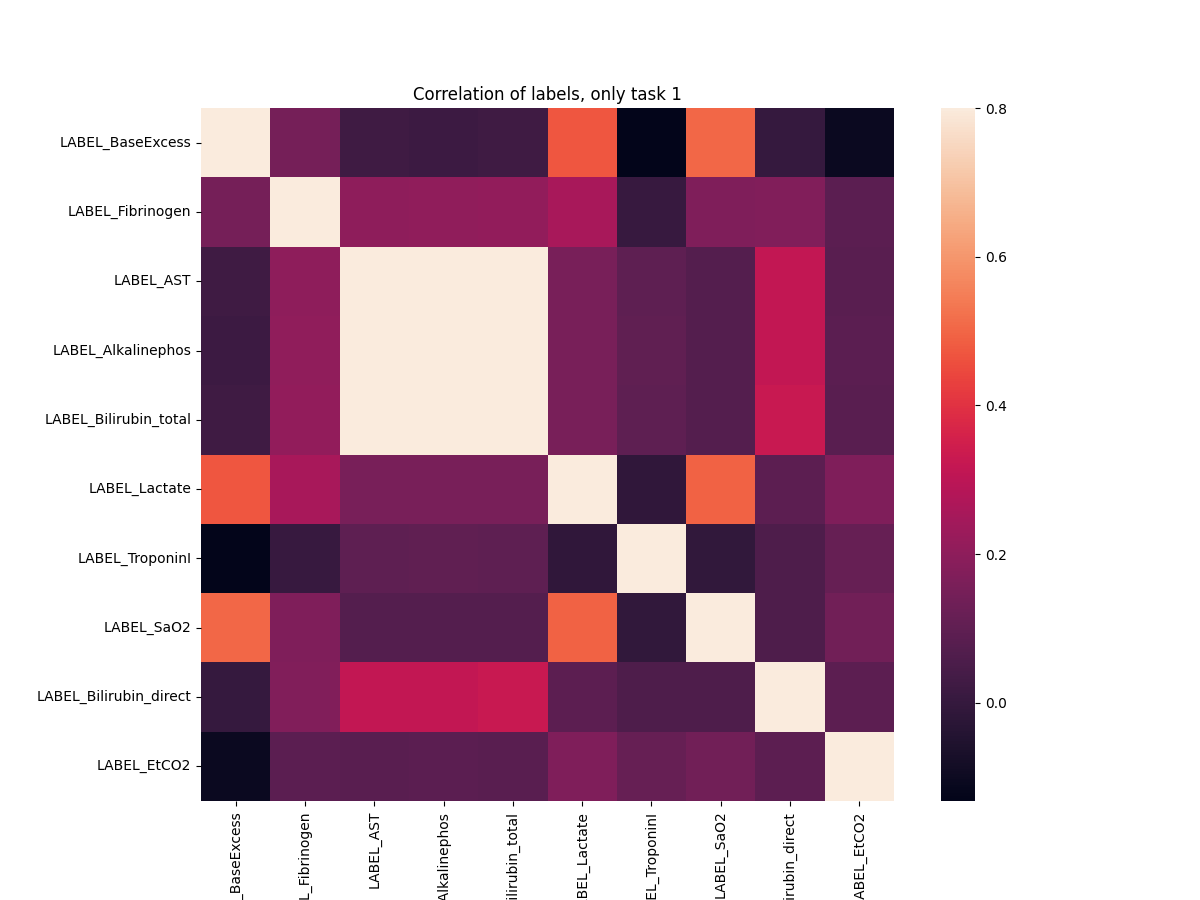
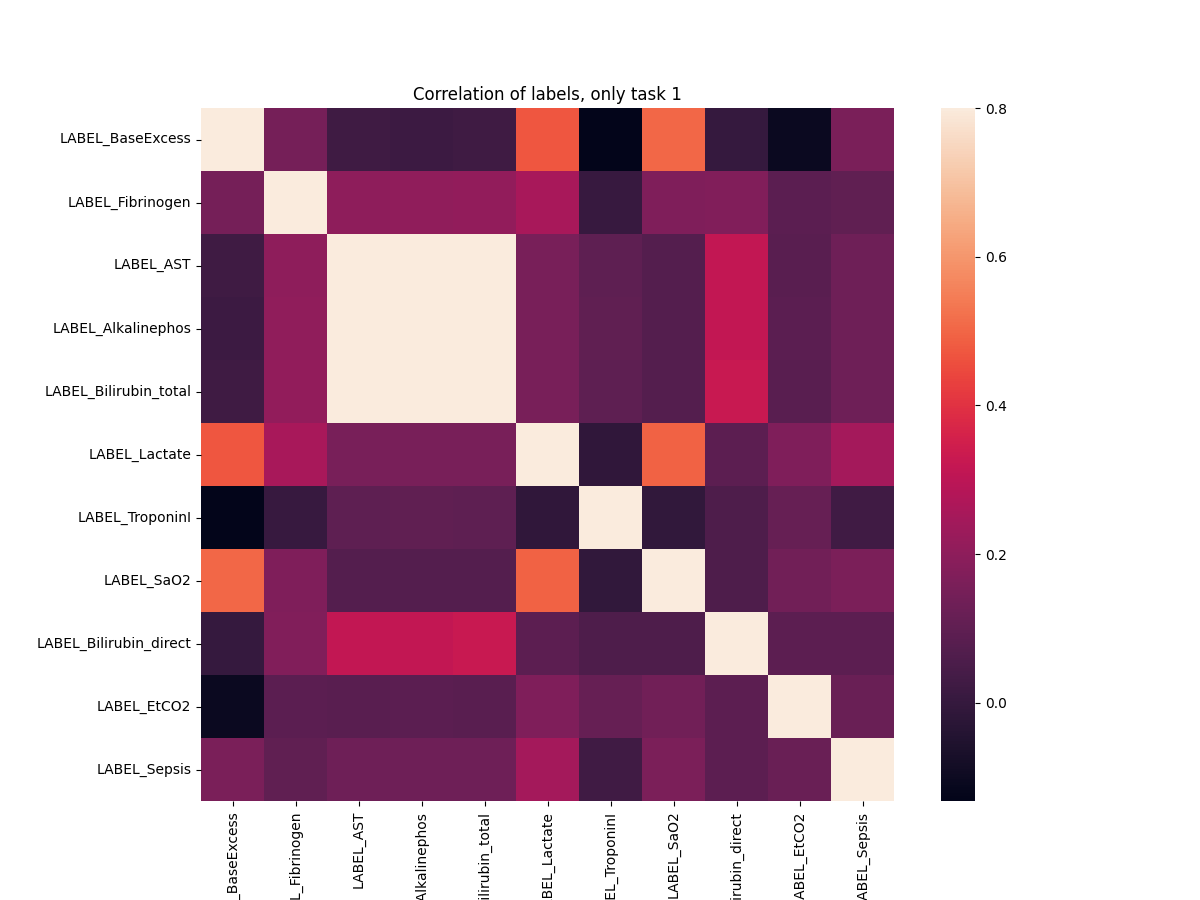
Task2 and played around with feature selection

diff --git a/task2/Code/train_sven_csv.py b/task2/Code/train_sven_csv.py
@@ -7,7 +7,7 @@ from sklearn.model_selection import cross_val_score
 from sklearn.feature_selection import SelectKBest
 
 fname = "Data/"
-train_df = pd.read_csv(fname + "train_features.csv")
+train_df = pd.read_csv(fname + "data_interpolated_means.csv")
 label_df = pd.read_csv(fname + "train_labels.csv")
 test_df = pd.read_csv(fname + "test_features.csv")
 
@@ -40,45 +40,21 @@ label_df = label_df.drop(columns=['LABEL_Sepsis','LABEL_RRate','LABEL_ABPm','LAB
 y = label_df.to_numpy()
 y = y[:,1:]
 
+#accuracy = np.empty((y.shape[1],))
+
 clf = SGDClassifier()
 for i in range(y.shape[1]):
     print("label: " + str(i))
-    max = 0
-    maxIdx = 12
-    for j in range(12,132,12):
-        X_new = SelectKBest(k=j).fit_transform(X, y[:,i])
-        scores = cross_val_score(clf, X_new, y[:,i], cv=10)
-        if np.mean(scores) > max:
-            max = np.mean(scores)
-            maxIdx = j
-    print(max)
-    print("Features: ",maxIdx)
+    X_new = SelectKBest(k=1).fit_transform(X, y[:,i])
+    scores = cross_val_score(clf, X_new, y[:,i], cv=10)
+    print(scores)
+
+#for i in range(y.shape[1]):
+    #clf = LogisticRegressionCV(cv=10, max_iter=100, solver='sag').fit(X,y[:,i])
+    #accuracy[i] = clf.score(X,y)
 
 
 
-
-'''
-label: 0
-0.7725716859288823
-label: 1
-0.9227684653973005
-label: 2
-0.7665174745711039
-label: 3
-0.770307724287021
-label: 4
-0.7648852858845376
-label: 5
-0.8095817466256479
-label: 6
-0.9018157201851391
-label: 7
-0.7889439039937918
-label: 8
-0.9603579723400127
-label: 9
-0.9279820958399159
-'''
 
 
 

diff --git a/task2/Code/task_2.py b/task2/Code/task_2.py
@@ -35,53 +35,11 @@ X = np.hstack((age,X))
 
 # PREPARING TRAINING LABELS
 label_df = label_df.sort_values(by=['pid'])
-label_df = label_df.drop(columns=['LABEL_Sepsis','LABEL_RRate','LABEL_ABPm','LABEL_SpO2','LABEL_Heartrate'])
+label_df = label_df.loc[:,"LABEL_Sepsis"]
 
 y = label_df.to_numpy()
-y = y[:,1:]
 
 clf = SGDClassifier()
-for i in range(y.shape[1]):
-    print("label: " + str(i))
-    max = 0
-    maxIdx = 12
-    for j in range(12,132,12):
-        X_new = SelectKBest(k=j).fit_transform(X, y[:,i])
-        scores = cross_val_score(clf, X_new, y[:,i], cv=10)
-        if np.mean(scores) > max:
-            max = np.mean(scores)
-            maxIdx = j
-    print(max)
-    print("Features: ",maxIdx)
-
-
-
-
-'''
-label: 0
-0.7725716859288823
-label: 1
-0.9227684653973005
-label: 2
-0.7665174745711039
-label: 3
-0.770307724287021
-label: 4
-0.7648852858845376
-label: 5
-0.8095817466256479
-label: 6
-0.9018157201851391
-label: 7
-0.7889439039937918
-label: 8
-0.9603579723400127
-label: 9
-0.9279820958399159
-'''
-
-
-
-
-
-
+X_new = SelectKBest(k=1).fit_transform(X, y)
+scores = cross_val_score(clf, X_new, y, cv=10)
+print(scores)

diff --git a/task2/Code/labels_visualization.py b/task2/Code/labels_visualization.py
@@ -8,7 +8,7 @@ fname = "Data/"
 pd.options.display.max_columns = 40
 
 train_labels = pd.read_csv(fname + "train_labels.csv")
-train_labels = train_labels.drop(columns=['pid','LABEL_Sepsis','LABEL_RRate','LABEL_ABPm','LABEL_SpO2','LABEL_Heartrate'])
+train_labels = train_labels.drop(columns=['pid','LABEL_RRate','LABEL_ABPm','LABEL_SpO2','LABEL_Heartrate'])
 
 print(train_labels.describe())
 #print(train_labels.head(100))
